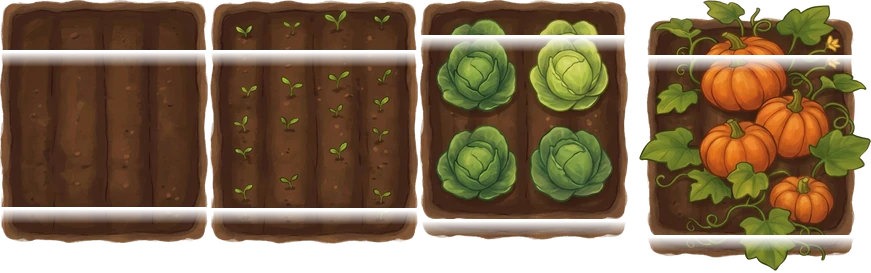
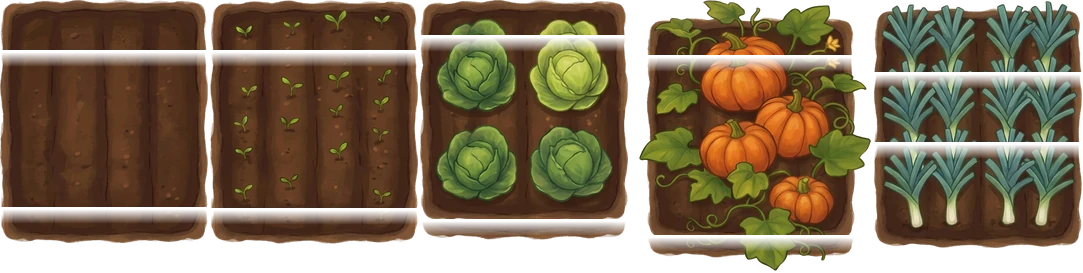
v133: day 1 rework — Zmey naps under a tree and gives the gate key; leek and vegetable beds; Olmar's hen-herding mini-game with eggs in the straw

diff --git a/sw.js b/sw.js
@@ -4,7 +4,7 @@
 //  • картинки и движок — сразу из сохранённой копии (без похода в сеть при каждом запуске).
 //    Когда выходит новая версия (меняется CACHE), новый service worker при установке
 //    заново скачивает все файлы с меткой версии — гарантированно свежие.
-const CACHE = 'farm-v129';
+const CACHE = 'farm-v133';
 const CORE = [
   './',
   './index.html',
